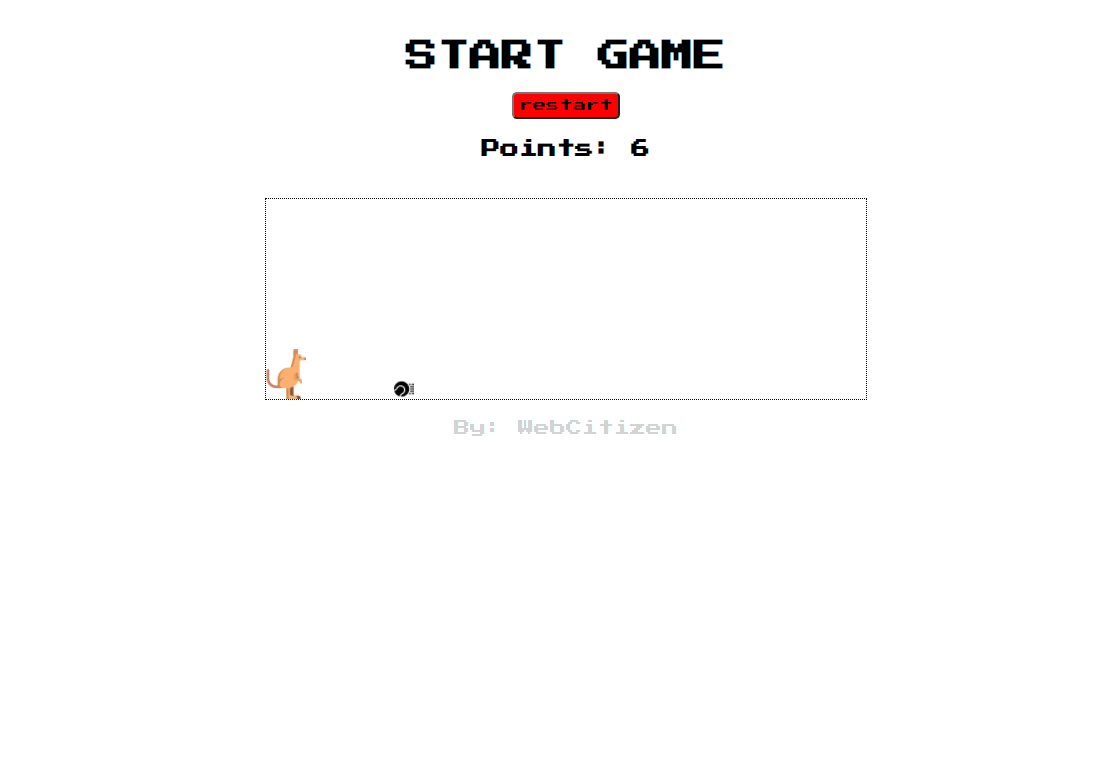
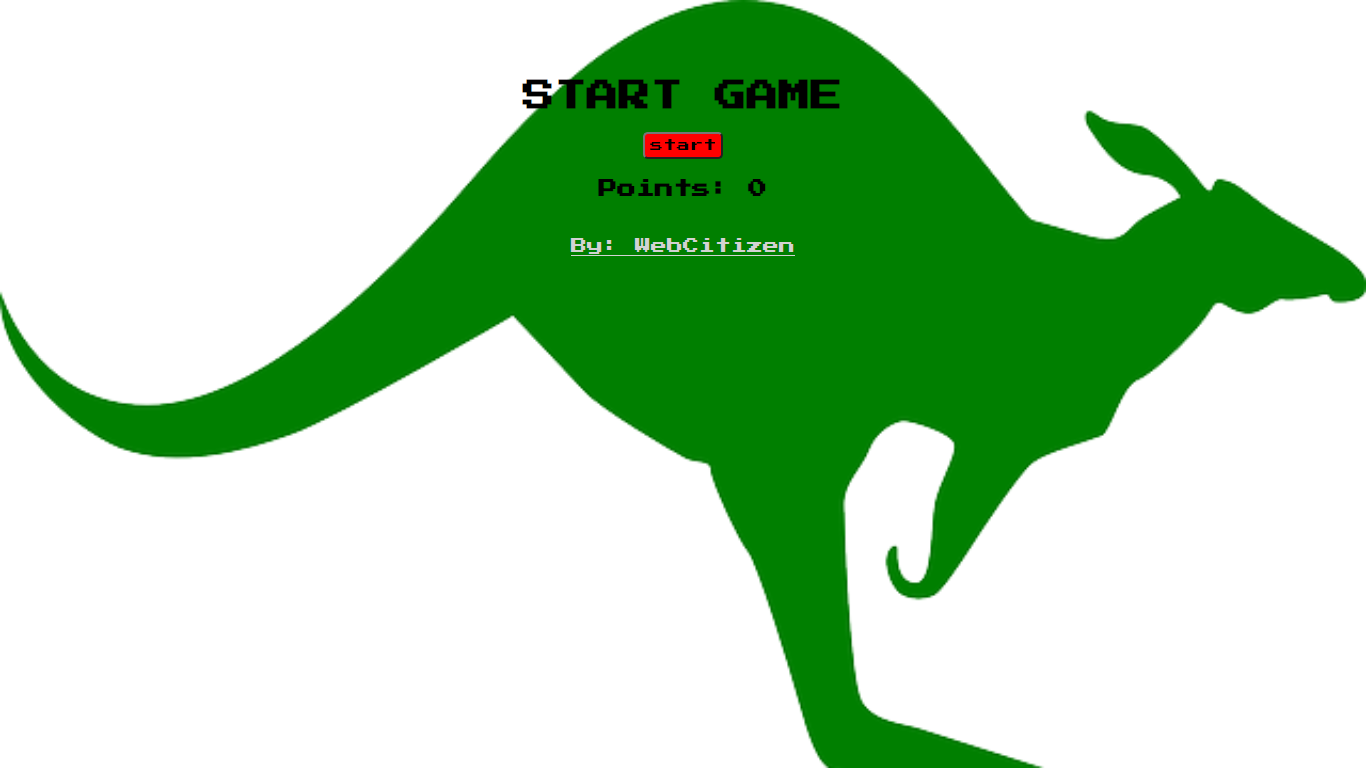
Add files via upload

diff --git a/index.html b/index.html
@@ -13,28 +13,29 @@
 </head>
 
 <body>
+	<div id=mainContainer>
+		<h3 id="media-query-phone">SWITCH TO LANDSCAPE MODE TO PLAY</h3>
 
-	<h3 id="media-query-phone">SWITCH TO LANDSCAPE MODE TO PLAY</h3>
-
-	<!-- INTRO TEXT & START BUTTON -->
-	<div id="intro">
-		<h1>START GAME</h1>
-		<button id="start" onclick="start()">start</button>
-		<button style="display:none; margin:20px auto;" id="restart" onclick="restart()">restart</button>
-		<h3 id="timer">Points: 0</h3>
-	</div>
-
-	<!-- GAME CONTAINER -->
-	<div style="display:none;" id="game-container">
-		<div id="game">
-			<div id="character"></div>
-			<div id="block"></div>
-			<h1 style="display:none;" id="message">YOU LOST!!!</h1>
+		<!-- INTRO TEXT & START BUTTON -->
+		<div id="intro">
+			<h1>START GAME</h1>
+			<button id="start" onclick="start()">start</button>
+			<button style="display:none; margin:20px auto;" id="restart" onclick="restart()">restart</button>
+			<h3 id="timer">Points: 0</h3>
 		</div>
-	</div>
 
-	<div style="text-align:center; margin:20px auto;">
-		<p><a style="color:lightgrey;" href="http://webcitizen.epizy.com/">By: WebCitizen</a></p>
+		<!-- GAME CONTAINER -->
+		<div style="display:none;" id="game-container">
+			<div id="game">
+				<div id="character"></div>
+				<div id="block"></div>
+				<h1 style="display:none;" id="message">YOU LOST!!!</h1>
+			</div>
+		</div>
+
+		<div style="text-align:center; margin:20px auto;">
+			<p><a style="color:lightgrey;" href="http://webcitizen.epizy.com/">By: WebCitizen</a></p>
+		</div>
 	</div>
 
 <script src="script.js"></script>

diff --git a/style.css b/style.css
@@ -65,15 +65,26 @@
 }
 
 
-
-/*MESSAGE FOR PHONE USERS*/
+/*MEDIA QUERY LAPTOPS_**background-image**/
+@media (min-width: 1025px) {
+	#mainContainer {
+		width: 100%;
+		height: 100vh;
+		padding: 40px;
+		margin: 0px auto;
+		box-sizing: border-box;
+		background-size: cover;
+		background-image: url("img/bigImage.png");
+	}
+}
+/*MESSAGE FOR PHONE USERS_**portrait mode**/
 #media-query-phone {
 	display: none;
 	color: blue;
 	padding: 10px; 
 	text-align: center; 
 }
-/*MEDIA QUERY MOBILE-PHONE*/
+/*MEDIA QUERY MOBILE-PHONE_**portrait mode**/
 @media (max-width: 440px) {
 	#media-query-phone {
 		display: block;
